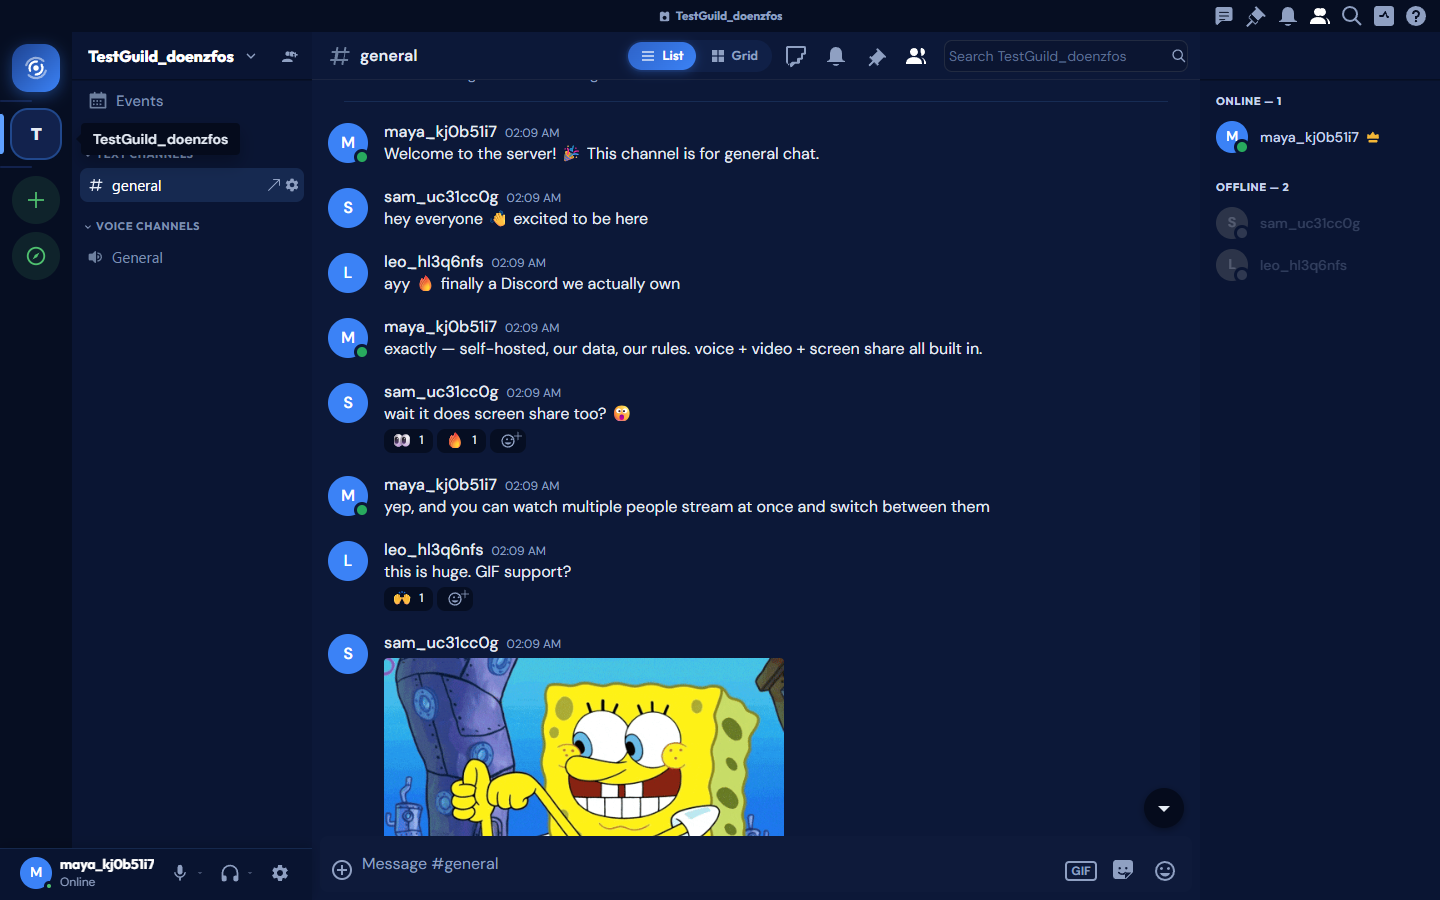
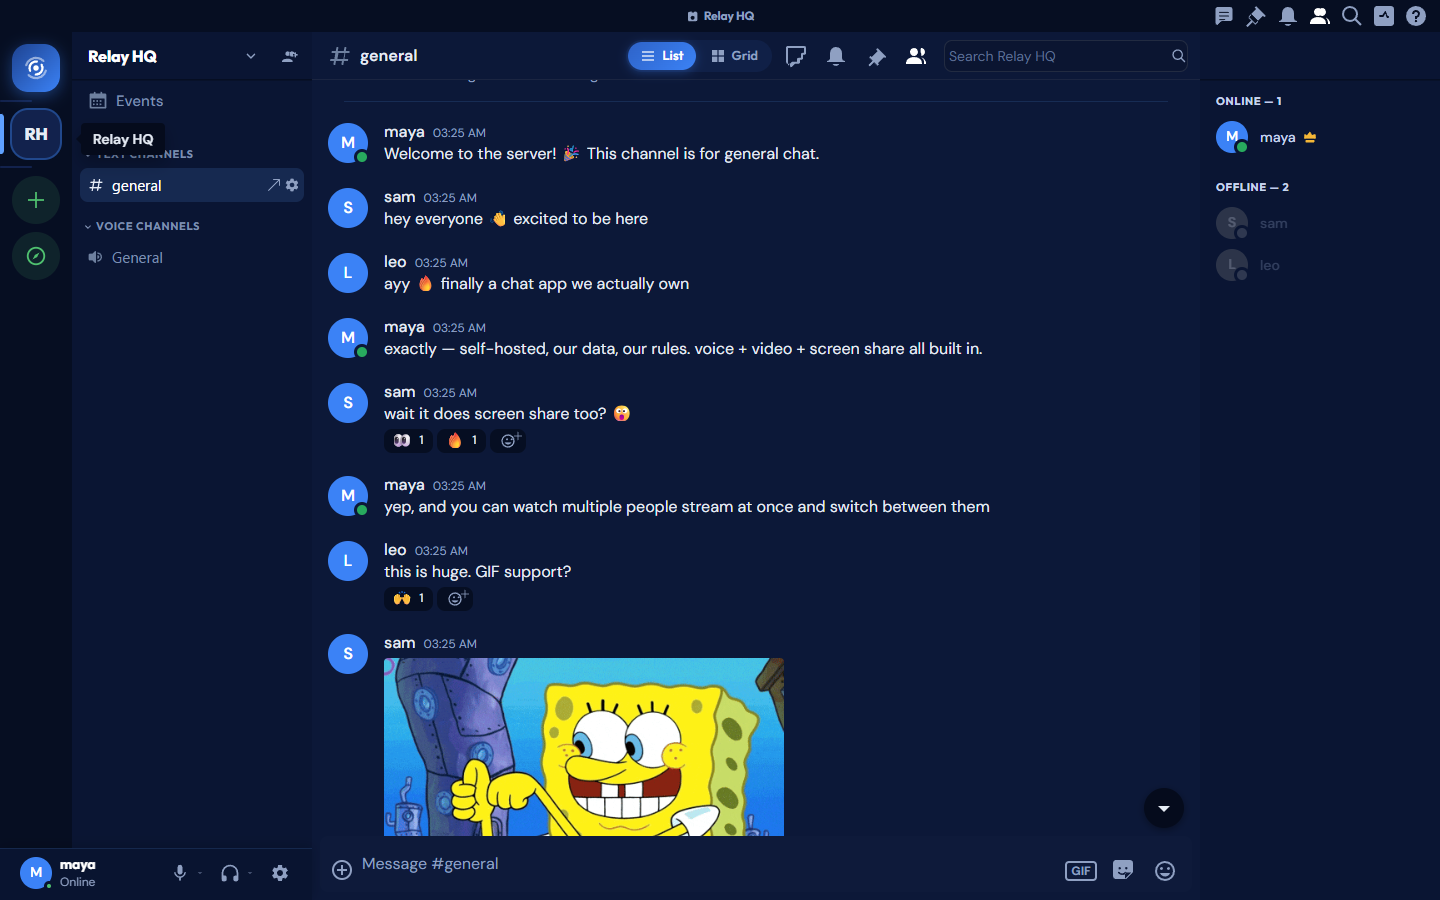
docs: showcase feature screenshots in the README, with cleaner captures
Add "A look inside" to the README — chat (reactions + inline GIF), the GIF/sticker/emoji
pickers, the media gallery, and Voice & Video settings. Regenerated the shots with clean
usernames and a real guild name ("Relay HQ"), and a fuller media gallery, via the updated
capture script.

diff --git a/packages/client/e2e/screenshots.spec.ts b/packages/client/e2e/screenshots.spec.ts
@@ -1,16 +1,10 @@
 import { test, expect, type BrowserContext, type Page, type APIRequestContext } from '@playwright/test';
-import {
-  API_BASE,
-  registerUserWithGuild,
-  addMemberToGuild,
-  sendMessageViaAPI,
-  loginViaToken,
-  clickFirstGuild,
-} from './helpers';
+import { API_BASE, sendMessageViaAPI, loginViaToken, clickFirstGuild } from './helpers';
 
 /**
- * Marketing screenshot capture. Seeds a realistic server + conversation via the API, then
- * drives the real client to capture each feature to docs/screenshots/feature-*.png.
+ * Marketing screenshot capture. Seeds a realistic server + conversation via the API (clean
+ * usernames + a real guild name), then drives the client to capture each feature to
+ * docs/screenshots/feature-*.png.
  *
  * Run against a live stack with host Chrome:
  *   PLAYWRIGHT_EXECUTABLE_PATH=<chrome> E2E_BASE_URL=https://localhost:5173 \
@@ -40,10 +34,39 @@ test.use({
   },
 });
 
-async function react(request: APIRequestContext, token: string, channelId: string, messageId: string, emoji: string) {
-  await request.put(`${API_BASE}/channels/${channelId}/messages/${messageId}/reactions/${encodeURIComponent(emoji)}/@me`, {
-    headers: { Authorization: `Bearer ${token}` },
-  }).catch(() => {});
+const auth = (t: string) => ({ Authorization: `Bearer ${t}` });
+
+/** Register a user with a clean username (falls back to a short suffix if it's taken). */
+async function registerClean(request: APIRequestContext, name: string): Promise<{ token: string; username: string; email: string }> {
+  for (const uname of [name, `${name}${Math.floor(Math.random() * 900 + 100)}`, `${name}${Date.now().toString(36).slice(-4)}`]) {
+    const email = `${uname}_${Date.now().toString(36)}@demo.test`;
+    const res = await request.post(`${API_BASE}/auth/register`, {
+      data: { username: uname, email, password: 'TestPass123A', date_of_birth: '1995-01-01', consent: true },
+    });
+    if (res.ok()) {
+      const { token } = await res.json() as { token: string };
+      return { token, username: uname, email };
+    }
+  }
+  throw new Error(`could not register a clean username for "${name}"`);
+}
+
+async function createGuild(request: APIRequestContext, token: string, name: string): Promise<{ guildId: string; channelId: string }> {
+  const g = await request.post(`${API_BASE}/guilds`, { data: { name }, headers: auth(token) });
+  const { id } = await g.json() as { id: string };
+  const ch = await request.get(`${API_BASE}/guilds/${id}/channels`, { headers: auth(token) });
+  const channels = await ch.json() as Array<{ id: string; type: number }>;
+  const text = channels.find(c => c.type === 0)!;
+  return { guildId: id, channelId: text.id };
+}
+
+async function joinGuild(request: APIRequestContext, ownerToken: string, guildId: string, memberToken: string): Promise<void> {
+  const ch = await request.get(`${API_BASE}/guilds/${guildId}/channels`, { headers: auth(ownerToken) });
+  const channels = await ch.json() as Array<{ id: string; type: number }>;
+  const text = channels.find(c => c.type === 0)!;
+  const inv = await request.post(`${API_BASE}/channels/${text.id}/invites`, { data: { max_uses: 5, max_age: 86400 }, headers: auth(ownerToken) });
+  const { code } = await inv.json() as { code: string };
+  await request.post(`${API_BASE}/invites/${code}`, { headers: auth(memberToken) });
 }
 
 test('capture feature screenshots', async ({ browser, request }) => {
@@ -52,27 +75,30 @@ test('capture feature screenshots', async ({ browser, request }) => {
   const shoot = async (page: Page, name: string, locatorSel?: string) => {
     const path = `${OUT}/${name}.png`;
     try {
-      if (locatorSel) {
-        await page.locator(locatorSel).first().screenshot({ path });
-      } else {
-        await page.screenshot({ path });
-      }
+      if (locatorSel) await page.locator(locatorSel).first().screenshot({ path });
+      else await page.screenshot({ path });
       done.push(name);
     } catch (e) {
       console.log(`[skip] ${name}: ${(e as Error).message.split('\n')[0]}`);
     }
   };
 
-  // ── Seed a server + a realistic conversation ──
-  const owner = await registerUserWithGuild(request, 'maya');   // Maya (owner)
-  const sam = await addMemberToGuild(request, owner.token, owner.guildId, 'sam');
-  const leo = await addMemberToGuild(request, owner.token, owner.guildId, 'leo');
-  const cid = owner.channelId;
+  // ── Seed a server + a realistic conversation with clean names ──
+  const owner = await registerClean(request, 'maya');
+  const { guildId, channelId: cid } = await createGuild(request, owner.token, 'Relay HQ');
+  const sam = await registerClean(request, 'sam');
+  const leo = await registerClean(request, 'leo');
+  await joinGuild(request, owner.token, guildId, sam.token);
+  await joinGuild(request, owner.token, guildId, leo.token);
 
+  const react = async (token: string, messageId: string, emoji: string) => {
+    await request.put(`${API_BASE}/channels/${cid}/messages/${messageId}/reactions/${encodeURIComponent(emoji)}/@me`, { headers: auth(token) }).catch(() => {});
+  };
   const line = (tok: string, text: string) => sendMessageViaAPI(request, tok, cid, text);
+
   await line(owner.token, 'Welcome to the server! 🎉 This channel is for general chat.');
   await line(sam.token, 'hey everyone 👋 excited to be here');
-  await line(leo.token, 'ayy 🔥 finally a Discord we actually own');
+  await line(leo.token, 'ayy 🔥 finally a chat app we actually own');
   await line(owner.token, 'exactly — self-hosted, our data, our rules. voice + video + screen share all built in.');
   const m5 = await line(sam.token, 'wait it does screen share too? 😮');
   await line(owner.token, 'yep, and you can watch multiple people stream at once and switch between them');
@@ -81,89 +107,79 @@ test('capture feature screenshots', async ({ browser, request }) => {
   const m9 = await line(owner.token, 'GIFs, stickers, custom emoji, reactions, threads — the whole thing 💜');
   await line(leo.token, 'okay I am sold. jumping in voice 🎧');
 
-  // reactions from other members
-  await react(request, owner.token, cid, m5.id, '👀');
-  await react(request, leo.token, cid, m5.id, '🔥');
-  await react(request, sam.token, cid, m7.id, '🙌');
-  await react(request, owner.token, cid, m9.id, '💜');
-  await react(request, sam.token, cid, m9.id, '🎉');
-  await react(request, leo.token, cid, m9.id, '🔥');
-  // (the default guild already has a "General" voice channel for the call shots)
+  await react(owner.token, m5.id, '👀');
+  await react(leo.token, m5.id, '🔥');
+  await react(sam.token, m7.id, '🙌');
+  await react(owner.token, m9.id, '💜');
+  await react(sam.token, m9.id, '🎉');
+  await react(leo.token, m9.id, '🔥');
 
   const creds = (u: { email: string }) => ({ email: u.email, password: 'TestPass123A' });
 
   // ── Maya's browser: chat, pickers, gallery, settings ──
   const ctxA: BrowserContext = await browser.newContext({ ignoreHTTPSErrors: true, baseURL: BASE, viewport: VIEWPORT });
   const a = await ctxA.newPage();
-  try {
-    await loginViaToken(a, owner.token, creds(owner));
-    await clickFirstGuild(a);
-    // Open the #general TEXT channel (exact label — "general" also matches the voice channel).
-    const general = a.locator('[role="button"][aria-label="Text channel general"]').first();
-    await expect(general).toBeVisible({ timeout: 20000 });
-    await general.click();
-    await expect(a.locator('textarea[aria-label*="Message" i]')).toBeVisible({ timeout: 20000 });
-    await a.waitForTimeout(1500); // let messages + GIF settle
+  await loginViaToken(a, owner.token, creds(owner));
+  await clickFirstGuild(a);
+  const general = a.locator('[role="button"][aria-label="Text channel general"]').first();
+  await expect(general).toBeVisible({ timeout: 20000 });
+  await general.click();
+  await expect(a.locator('textarea[aria-label*="Message" i]')).toBeVisible({ timeout: 20000 });
+  await a.waitForTimeout(1500);
 
-    await shoot(a, 'feature-chat');
+  await shoot(a, 'feature-chat');
+  await shoot(a, 'feature-reactions', 'div[role="group"][aria-label="Reactions"]');
 
-    // Reactions close-up (the message row that has the reaction pills).
-    await shoot(a, 'feature-reactions', 'div[role="group"][aria-label="Reactions"]');
-
-    // Emoji picker
+  const openPanel = async (btn: string, dialog: string, name: string, waitMs = 400) => {
     try {
-      await a.getByRole('button', { name: 'Add Emoji' }).click();
-      await expect(a.locator('[role="dialog"][aria-label="Emoji picker"]')).toBeVisible({ timeout: 8000 });
-      await a.waitForTimeout(400);
-      await shoot(a, 'feature-emoji-picker');
-      await a.keyboard.press('Escape');
-    } catch (e) { console.log('emoji picker:', (e as Error).message.split('\n')[0]); }
+      await a.getByRole('button', { name: btn }).click();
+      await expect(a.locator(dialog)).toBeVisible({ timeout: 8000 });
+      await a.waitForTimeout(waitMs);
+      await shoot(a, name);
+    } catch (e) { console.log(`${name}:`, (e as Error).message.split('\n')[0]); }
+  };
 
-    // Sticker picker
-    try {
-      await a.getByRole('button', { name: 'Open sticker picker' }).click();
-      await expect(a.locator('[role="dialog"][aria-label="Sticker picker"]')).toBeVisible({ timeout: 8000 });
-      await a.waitForTimeout(400);
-      await shoot(a, 'feature-sticker-picker');
-      await a.keyboard.press('Escape');
-    } catch (e) { console.log('sticker picker:', (e as Error).message.split('\n')[0]); }
+  await openPanel('Add Emoji', '[role="dialog"][aria-label="Emoji picker"]', 'feature-emoji-picker');
+  await a.keyboard.press('Escape');
+  await openPanel('Open sticker picker', '[role="dialog"][aria-label="Sticker picker"]', 'feature-sticker-picker');
+  await a.keyboard.press('Escape');
+  await openPanel('Open GIF picker', '[role="dialog"][aria-label="GIF picker"]', 'feature-gif-picker', 2500);
+  await a.keyboard.press('Escape');
 
-    // GIF picker (needs GIPHY key + network — best effort)
+  // Send a few real GIFs (reopen + pick) so the media gallery is fuller.
+  for (let i = 0; i < 3; i++) {
     try {
       await a.getByRole('button', { name: 'Open GIF picker' }).click();
-      await expect(a.locator('[role="dialog"][aria-label="GIF picker"]')).toBeVisible({ timeout: 8000 });
-      await a.waitForTimeout(2500); // let results load if online
-      await shoot(a, 'feature-gif-picker');
-      await a.keyboard.press('Escape');
-    } catch (e) { console.log('gif picker:', (e as Error).message.split('\n')[0]); }
-
-    // Media gallery (Grid view)
-    try {
-      await a.getByTitle('Grid view').click();
+      const opts = a.locator('[role="dialog"][aria-label="GIF picker"] [role="option"]');
+      await expect(opts.nth(i)).toBeVisible({ timeout: 8000 });
+      await opts.nth(i).click(); // sends the GIF and closes the picker
       await a.waitForTimeout(1200);
-      await shoot(a, 'feature-media-gallery');
-      await a.getByTitle('List view').click().catch(() => {});
-    } catch (e) { console.log('gallery:', (e as Error).message.split('\n')[0]); }
-
-    // Settings → Voice & Video (shows the mic test + Hear myself)
-    try {
-      await a.locator('[aria-label="User Settings"]').click();
-      const dlg = a.locator('[role="dialog"][aria-label="User Settings"]');
-      await expect(dlg).toBeVisible({ timeout: 10000 });
-      await dlg.getByRole('button', { name: 'Voice & Video' }).click();
-      await a.waitForTimeout(600);
-      await shoot(a, 'feature-settings-voice');
-      await a.keyboard.press('Escape');
-    } catch (e) { console.log('settings:', (e as Error).message.split('\n')[0]); }
-  } finally {
-    // keep ctxA open for the voice shots below (Maya will join voice)
+    } catch (e) { console.log('gif send:', (e as Error).message.split('\n')[0]); }
   }
 
-  // ── Voice / video / screen share: Maya + Sam in the voice channel ──
+  // Media gallery (Grid view)
+  try {
+    await a.getByTitle('Grid view').click();
+    await a.waitForTimeout(1500);
+    await shoot(a, 'feature-media-gallery');
+    await a.getByTitle('List view').click().catch(() => {});
+  } catch (e) { console.log('gallery:', (e as Error).message.split('\n')[0]); }
+
+  // Settings → Voice & Video (shows the mic test + Hear myself)
+  try {
+    await a.locator('[aria-label="User Settings"]').click();
+    const dlg = a.locator('[role="dialog"][aria-label="User Settings"]');
+    await expect(dlg).toBeVisible({ timeout: 10000 });
+    await dlg.getByRole('button', { name: 'Voice & Video' }).click();
+    await a.waitForTimeout(600);
+    await shoot(a, 'feature-settings-voice');
+    await a.keyboard.press('Escape');
+  } catch (e) { console.log('settings:', (e as Error).message.split('\n')[0]); }
+
+  // ── Voice / video / screen share (UI shots; video is a synthetic test pattern) ──
   const ctxB: BrowserContext = await browser.newContext({ ignoreHTTPSErrors: true, baseURL: BASE, viewport: VIEWPORT });
   const b = await ctxB.newPage();
   try {
-    // Maya joins voice and goes live (camera + screen share).
     await clickFirstGuild(a);
     const voiceA = a.locator('[role="button"][aria-label^="Voice channel"]').first();
     await expect(voiceA).toBeVisible({ timeout: 20000 });
@@ -175,21 +191,16 @@ test('capture feature screenshots', async ({ browser, request }) => {
     await a.getByRole('button', { name: 'Go Live' }).click();
     await expect(a.getByTestId('stream-stage')).toBeVisible({ timeout: 40000 });
 
-    // Sam joins voice and watches the stream.
     await loginViaToken(b, sam.token, creds(sam));
     await clickFirstGuild(b);
     const voiceB = b.locator('[role="button"][aria-label^="Voice channel"]').first();
     await expect(voiceB).toBeVisible({ timeout: 20000 });
     await voiceB.click();
     await expect(b.getByRole('toolbar', { name: 'Voice controls' })).toBeVisible({ timeout: 20000 });
-    // Sam turns camera on too, so the call shows a live video tile.
     await b.getByRole('toolbar', { name: 'Voice controls' }).getByLabel('Turn On Camera').click().catch(() => {});
-    await b.waitForTimeout(4000); // let the stream + camera tiles render frames
+    await b.waitForTimeout(4000);
 
-    // Watcher view: stream on the stage + participant tiles.
     await shoot(b, 'feature-screen-share');
-
-    // Grid of participants (the video-call view) from Maya's side.
     await shoot(a, 'feature-voice-call');
   } catch (e) {
     console.log('voice/screen-share:', (e as Error).message.split('\n')[0]);

diff --git a/README.md b/README.md
@@ -59,6 +59,20 @@ kick/ban, and an audit log so moderators can see what happened. Scheduled events
 rest of the stack in Docker Compose. Nothing external to sign up for. The source is available
 under a noncommercial license, so you can read exactly what you're running and change it.
 
+## A look inside
+
+| Chat, reactions & GIFs | The GIF picker (GIPHY) |
+|---|---|
+| ![Chat with reactions and an inline GIF](docs/screenshots/feature-chat.png) | ![GIF picker with GIPHY results](docs/screenshots/feature-gif-picker.png) |
+
+| Stickers | Custom emoji |
+|---|---|
+| ![Sticker picker](docs/screenshots/feature-sticker-picker.png) | ![Emoji picker](docs/screenshots/feature-emoji-picker.png) |
+
+| Media gallery | Voice & video settings |
+|---|---|
+| ![Channel media gallery](docs/screenshots/feature-media-gallery.png) | ![Voice & video settings](docs/screenshots/feature-settings-voice.png) |
+
 ## Getting started
 
 You need [Docker Desktop](https://www.docker.com/products/docker-desktop/) (Windows/macOS) or
